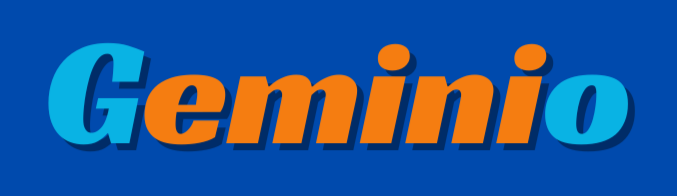
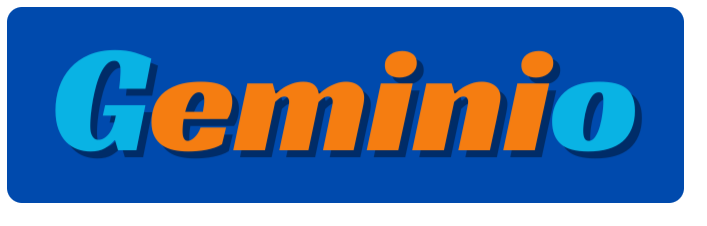
feat: adjust png for readme

diff --git a/README.md b/README.md
@@ -1,5 +1,5 @@
 <p align=center>
-<img src="./docs/geminio.png" width="60%" height="60%">
+<img src="./docs/geminio.png" width="35%" height="35%">
 </p>
 
 <div align="center">

diff --git a/README_cn.md b/README_cn.md
@@ -1,5 +1,5 @@
 <p align=center>
-<img src="./docs/geminio.png" width="60%" height="60%">
+<img src="./docs/geminio.png" width="35%" height="35%">
 </p>
 
 <div align="center">
